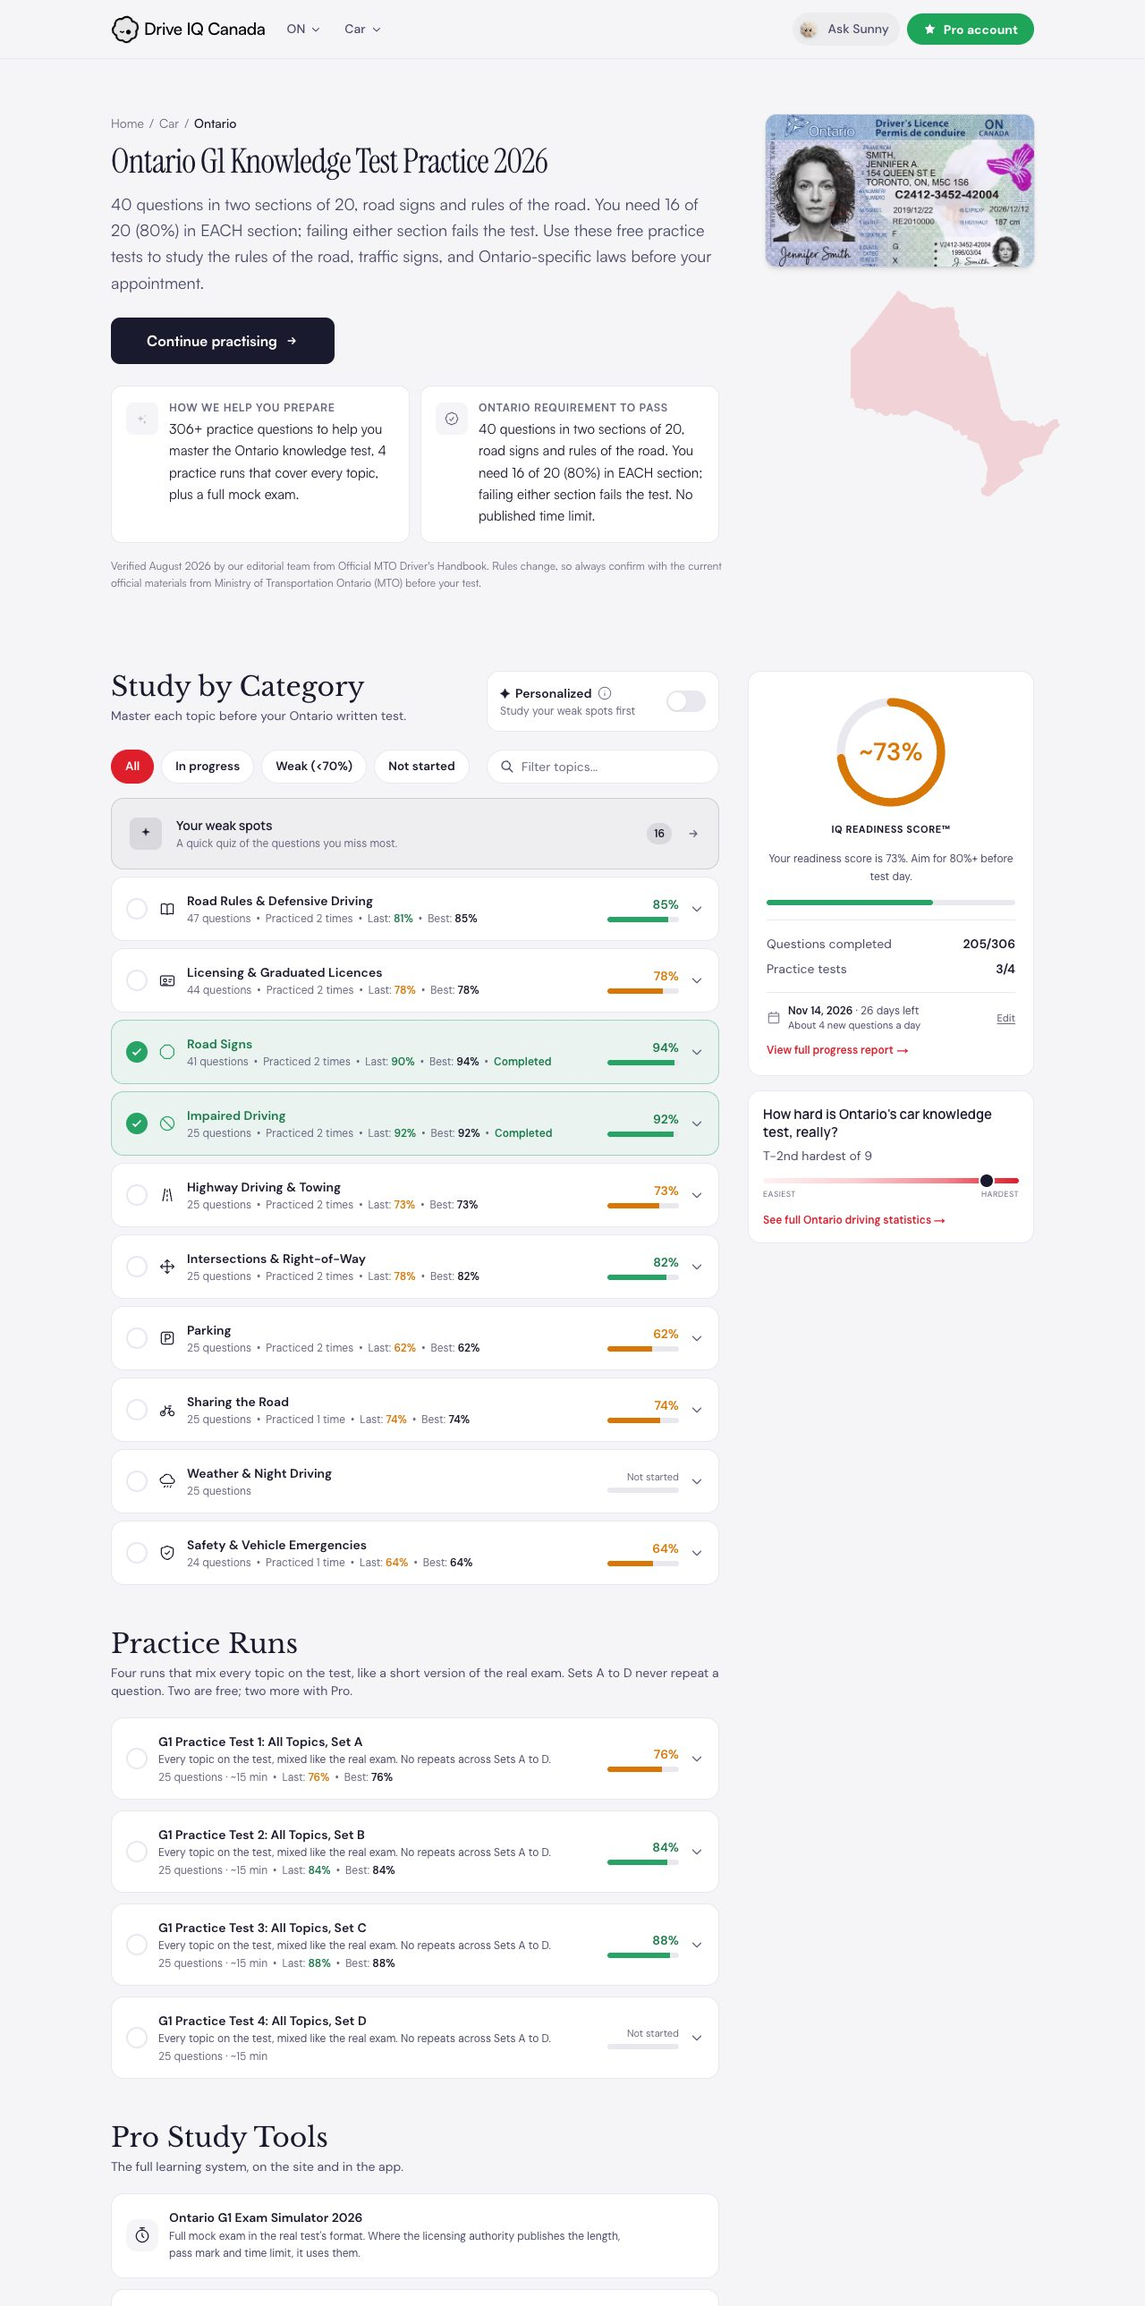
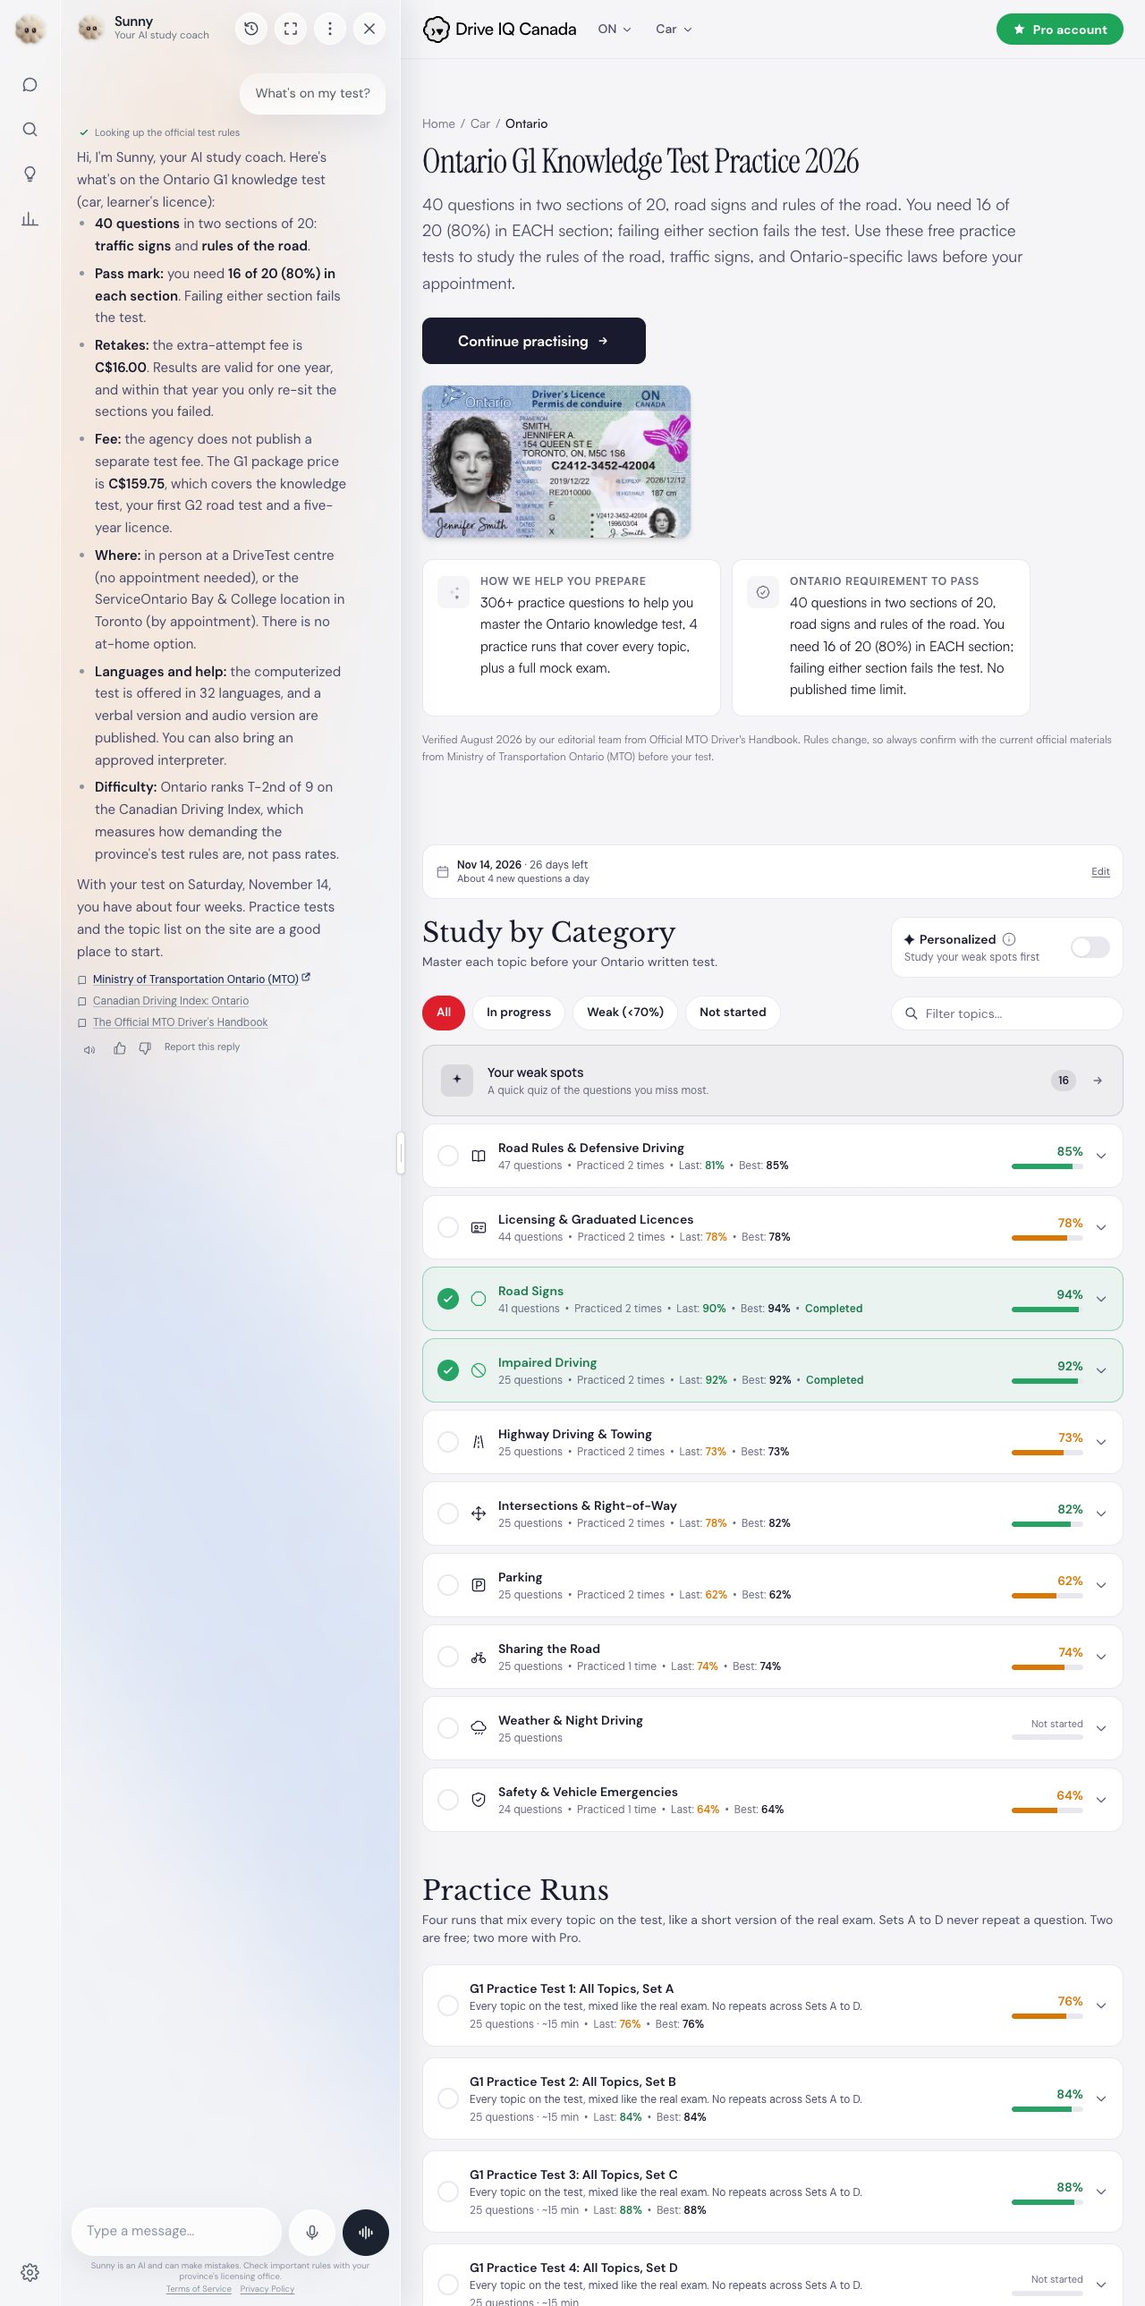
Drive IQ Canada page: site shot with Sunny answering, AI coach and games sections

diff --git a/work/drive-iq-canada/index.html b/work/drive-iq-canada/index.html
@@ -54,7 +54,7 @@
     </header>
     <figure class="s-fig"><div class="s-frame"><div class="stage" role="img" aria-label="A screen from Drive IQ Canada" style="--dd:-65.9%;--c1:#B8404A;--c2:#5C1A22;--bgimg:url(/assets/img/bg/drive-iq-canada.jpg)">
   <div class="win"><div class="bar"><i></i><i></i><i></i><span>driveiqcanada.com</span></div>
-    <div class="vp"><img src="/assets/img/shots/drive-iq-canada-d.jpg?v=2" alt="" width="1280" height="2578"></div></div>
+    <div class="vp"><img src="/assets/img/shots/drive-iq-canada-d.jpg?v=3" alt="" width="1280" height="2578"></div></div>
 </div></div><figcaption>A look inside Drive IQ Canada.</figcaption></figure>
     <div class="s-layout">
       <aside class="s-side" id="get" aria-label="Where to find Drive IQ Canada">
@@ -71,6 +71,12 @@
 <blockquote class="pull">A translated question can quietly stop matching the rule it was meant to test.</blockquote>
 <h2>Beyond the family car</h2>
 <p>Passenger cars are only part of the story. Drive IQ Canada also covers motorcycles and the commercial classes, so the person preparing for a Class 1 gets the same care as the person preparing for a first licence.</p>
+<h2>Practice that feels like play</h2>
+<p>Alongside the practice tests, Drive IQ Canada turns each province&#x27;s own questions into quick games, each with five levels, plus two free picks every day. Sign Sprint and Sign Match drill Canadian road signs, and Fact Check, Flash Cards and By the Numbers draw on your own province&#x27;s question bank. When it&#x27;s time to check readiness, the Exam Simulator follows your province&#x27;s real format, down to tests like Ontario&#x27;s G1 that grade each section on its own.</p>
+<h2>A coach that answers from your province&#x27;s handbook</h2>
+<p>Ask a general-purpose chatbot about a driving rule and you may get a confident answer with another province&#x27;s speed limit, a made-up fee or a rule from the wrong country. For someone studying for a G1 or a SAAQ exam, that is worse than no answer at all.</p>
+<p>Drive IQ Canada includes Sunny, our AI study coach, built to work the other way around. Sunny answers from your province or territory&#x27;s own handbook and official sources, and names the part it used so you can check it yourself. When the licensing authority doesn&#x27;t publish something, Sunny says so instead of guessing. It turns the questions you miss into quick quizzes, gives hints that stop short of handing you the answer, and works in English and in French, on the website and in the app.</p>
+<blockquote class="pull">Ask in English or in French. The answer still comes from your province&#x27;s own rules.</blockquote>
 <h2>An index that says when it does not know</h2>
 <p>We publish a Driving Index that compares provinces using real data. Where a province does not have enough information to rank fairly, we leave it unranked instead of inventing a number. We would rather be honest than tidy.</p>
 <h2>Who it is for</h2>

diff --git a/work/insurance-pass/index.html b/work/insurance-pass/index.html
@@ -54,7 +54,7 @@
     </header>
     <figure class="s-fig"><div class="s-frame"><div class="stage" role="img" aria-label="A screen from Insurance Pass" style="--dd:-65.9%;--c1:#E3A883;--c2:#A55F3E;--bgimg:url(/assets/img/bg/insurance-pass.jpg)">
   <div class="win"><div class="bar"><i></i><i></i><i></i><span>insurance-pass.com</span></div>
-    <div class="vp"><img src="/assets/img/shots/insurance-pass-d.jpg?v=2" alt="" width="1280" height="2578"></div></div>
+    <div class="vp"><img src="/assets/img/shots/insurance-pass-d.jpg?v=3" alt="" width="1280" height="2578"></div></div>
 </div></div><figcaption>A look inside Insurance Pass.</figcaption></figure>
     <div class="s-layout">
       <aside class="s-side" id="get" aria-label="Where to find Insurance Pass">

diff --git a/work/citizen-pass/index.html b/work/citizen-pass/index.html
@@ -54,7 +54,7 @@
     </header>
     <figure class="s-fig"><div class="s-frame"><div class="stage" role="img" aria-label="A screen from Citizen Pass" style="--dd:-65.9%;--c1:#3A4C78;--c2:#1A2640;--bgimg:url(/assets/img/bg/citizen-pass.jpg)">
   <div class="win"><div class="bar"><i></i><i></i><i></i><span>citizen-pass.com</span></div>
-    <div class="vp"><img src="/assets/img/shots/citizen-pass-d.jpg?v=2" alt="" width="1280" height="2578"></div></div>
+    <div class="vp"><img src="/assets/img/shots/citizen-pass-d.jpg?v=3" alt="" width="1280" height="2578"></div></div>
 </div></div><figcaption>A look inside Citizen Pass.</figcaption></figure>
     <div class="s-layout">
       <aside class="s-side" id="get" aria-label="Where to find Citizen Pass">

diff --git a/work/airwaves-iq/index.html b/work/airwaves-iq/index.html
@@ -54,7 +54,7 @@
     </header>
     <figure class="s-fig"><div class="s-frame"><div class="stage" role="img" aria-label="A screen from Airwaves IQ" style="--dd:-65.9%;--c1:#3F8C7E;--c2:#16443C;--bgimg:url(/assets/img/bg/airwaves-iq.jpg)">
   <div class="win"><div class="bar"><i></i><i></i><i></i><span>airwaves-iq.com</span></div>
-    <div class="vp"><img src="/assets/img/shots/airwaves-iq-d.jpg?v=2" alt="" width="1280" height="2578"></div></div>
+    <div class="vp"><img src="/assets/img/shots/airwaves-iq-d.jpg?v=3" alt="" width="1280" height="2578"></div></div>
 </div></div><figcaption>A look inside Airwaves IQ.</figcaption></figure>
     <div class="s-layout">
       <aside class="s-side" id="get" aria-label="Where to find Airwaves IQ">

diff --git a/work/aviator-iq/index.html b/work/aviator-iq/index.html
@@ -54,7 +54,7 @@
     </header>
     <figure class="s-fig"><div class="s-frame"><div class="stage" role="img" aria-label="A screen from Aviator IQ" style="--dd:-65.9%;--c1:#E7D9BF;--c2:#B98E5A;--bgimg:url(/assets/img/bg/aviator-iq.jpg)">
   <div class="win"><div class="bar"><i></i><i></i><i></i><span>aviator-iq.com</span></div>
-    <div class="vp"><img src="/assets/img/shots/aviator-iq-d.jpg?v=2" alt="" width="1280" height="2578"></div></div>
+    <div class="vp"><img src="/assets/img/shots/aviator-iq-d.jpg?v=3" alt="" width="1280" height="2578"></div></div>
 </div></div><figcaption>A look inside Aviator IQ.</figcaption></figure>
     <div class="s-layout">
       <aside class="s-side" id="get" aria-label="Where to find Aviator IQ">

diff --git a/work/mariner-iq/index.html b/work/mariner-iq/index.html
@@ -54,7 +54,7 @@
     </header>
     <figure class="s-fig"><div class="s-frame"><div class="stage" role="img" aria-label="A screen from Mariner IQ" style="--dd:-65.9%;--c1:#3F74B3;--c2:#14305A;--bgimg:url(/assets/img/bg/mariner-iq.jpg)">
   <div class="win"><div class="bar"><i></i><i></i><i></i><span>mariner-iq.com</span></div>
-    <div class="vp"><img src="/assets/img/shots/mariner-iq-d.jpg?v=2" alt="" width="1280" height="2578"></div></div>
+    <div class="vp"><img src="/assets/img/shots/mariner-iq-d.jpg?v=3" alt="" width="1280" height="2578"></div></div>
 </div></div><figcaption>A look inside Mariner IQ.</figcaption></figure>
     <div class="s-layout">
       <aside class="s-side" id="get" aria-label="Where to find Mariner IQ">

diff --git a/work/dmv-iq/index.html b/work/dmv-iq/index.html
@@ -54,7 +54,7 @@
     </header>
     <figure class="s-fig"><div class="s-frame"><div class="stage" role="img" aria-label="A screen from DMV IQ" style="--dd:-65.9%;--c1:#6E9482;--c2:#2F4E41;--bgimg:url(/assets/img/bg/dmv-iq.jpg)">
   <div class="win"><div class="bar"><i></i><i></i><i></i><span>dmv-iq.com</span></div>
-    <div class="vp"><img src="/assets/img/shots/dmv-iq-d.jpg?v=2" alt="" width="1280" height="2578"></div></div>
+    <div class="vp"><img src="/assets/img/shots/dmv-iq-d.jpg?v=3" alt="" width="1280" height="2578"></div></div>
 </div></div><figcaption>A look inside DMV IQ.</figcaption></figure>
     <div class="s-layout">
       <aside class="s-side" id="get" aria-label="Where to find DMV IQ">

diff --git a/_build/build.py b/_build/build.py
@@ -555,26 +555,32 @@ def stage(p):
     dpct = round(100 * (1 - (11 / 16) / (dh / dw)), 1)
     return f"""<div class="stage" role="img" aria-label="A screen from {p['name']}" style="--dd:-{dpct}%;--c1:{c1};--c2:{c2};--bgimg:url(/assets/img/bg/{slug}.jpg)">
   <div class="win"><div class="bar"><i></i><i></i><i></i><span>{p['host']}</span></div>
-    <div class="vp"><img src="/assets/img/shots/{slug}-d.jpg?v=2" alt="" width="{dw}" height="{dh}"></div></div>
+    <div class="vp"><img src="/assets/img/shots/{slug}-d.jpg?v=3" alt="" width="{dw}" height="{dh}"></div></div>
 </div>"""
 
 GAMES = [
  ("sprint","Sign Sprint","Sort road signs by type before the timer runs out."),
- ("fact","Fact Check","Swipe statements from the state's material true or false."),
+ ("fact","Fact Check","Swipe statements from the {region}'s material true or false."),
  ("flash","Flash Cards","Scratch to reveal the answer, then say honestly if you knew it."),
  ("match","Sign Match","Flip cards to pair road signs from memory."),
- ("numbers","By the Numbers","Spin to the exact distance, fine or time limit from your state's questions."),
+ ("numbers","By the Numbers","Spin to the exact distance, fine or time limit from your {region}'s questions."),
 ]
+# per product: clip folder under assets/img/, and the word for its jurisdiction
+GAME_SETS = {"dmv-iq": ("games", "state"), "drive-iq-canada": ("games/drive-iq-canada", "province")}
 
 PLAY_JSON = '{"fact": [{"q": "A red octagon always means stop.", "a": true}, {"q": "Green signs warn you about hazards ahead.", "a": false, "why": "Green signs give directions. Yellow ones warn."}, {"q": "An upside-down triangle means yield.", "a": true}, {"q": "Orange signs mark work zones.", "a": true}, {"q": "A round yellow sign means a roundabout is ahead.", "a": false, "why": "A round yellow sign means a railroad crossing is ahead."}, {"q": "A five-sided sign marks a school zone or crossing.", "a": true}], "flash": [{"tag": "Driving", "q": "A flashing red traffic light means…", "a": "Stop, then go when it\'s safe"}, {"tag": "Citizenship", "q": "How many U.S. Senators are there?", "a": "100"}, {"tag": "Aviation", "q": "Which wingtip carries the red position light?", "a": "Left"}, {"tag": "Boating", "q": "Facing forward on a boat, port is…", "a": "Left"}, {"tag": "Ham radio", "q": "On the air, “CQ” means…", "a": "Calling any station"}, {"tag": "Driving", "q": "A solid yellow line on your side of the road means…", "a": "No passing from your side"}], "match": [["R1-1", "Stop"], ["R1-2", "Yield"], ["W10-1", "Railroad crossing ahead"], ["S1-1", "School crossing"], ["R5-1", "Do not enter"], ["W20-1", "Road work ahead"]]}'
 
 HEART = '<svg viewBox="0 0 24 24" aria-hidden="true"><path d="M12 21s-7.500-4.600-9.600-9.300C.900 8.300 3 4.500 6.700 4.500c2.200 0 3.700 1.300 5.300 3.200 1.600-1.900 3.100-3.200 5.300-3.200 3.700 0 5.800 3.800 4.300 7.200C19.500 16.400 12 21 12 21z"/></svg>'
 
-def games_block():
-    """Gamification showcase on a product page: the real Challenges screen plus each game's animated intro art."""
-    tiles = "".join(f'''<figure class="gm-tile reveal"><video autoplay muted loop playsinline preload="metadata" poster="/assets/img/games/{k}.jpg" aria-hidden="true"><source src="/assets/img/games/{k}.webm" type="video/webm"><source src="/assets/img/games/{k}.mp4" type="video/mp4"></video><figcaption><b>{esc(t)}</b><span>{esc(d)}</span></figcaption></figure>''' for k, t, d in GAMES)
+def games_block(p):
+    """Gamification showcase on a product page: the real Challenges screen plus each game's animated intro art.
+    Renders nothing until the product's clips are in assets/img/<folder>/."""
+    folder, region = GAME_SETS[p["slug"]]
+    if not os.path.exists(os.path.join(ROOT, f"assets/img/{folder}/challenges.jpg")): return ""
+    d = f"/assets/img/{folder}"
+    tiles = "".join(f'''<figure class="gm-tile reveal"><video autoplay muted loop playsinline preload="metadata" poster="{d}/{k}.jpg" aria-hidden="true"><source src="{d}/{k}.webm" type="video/webm"><source src="{d}/{k}.mp4" type="video/mp4"></video><figcaption><b>{esc(t)}</b><span>{esc(x.format(region=region))}</span></figcaption></figure>''' for k, t, x in GAMES)
     return f'''<div class="gm">
-  <figure class="gm-phone reveal"><img src="/assets/img/games/challenges.jpg" alt="The Challenges screen in the DMV IQ app: Exam Simulator, Quick Quiz, Practice Test and daily games" width="520" height="1129" loading="lazy"></figure>
+  <figure class="gm-phone reveal"><img src="{d}/challenges.jpg" alt="The Challenges screen in the {p['name']} app: Exam Simulator, Quick Quiz, Practice Test and daily games" width="520" height="1129" loading="lazy"></figure>
   <div class="gm-grid">{tiles}</div>
 </div>
 '''
@@ -588,7 +594,7 @@ def product(p):
     for kind, text in st["body"]:
         if kind == "p": body_html += f"<p>{esc(text)}</p>\n"
         elif kind == "h": body_html += f"<h2>{esc(text)}</h2>\n"
-        elif kind == "games": body_html += games_block()
+        elif kind == "games": body_html += games_block(p)
         else: body_html += f'<blockquote class="pull">{esc(text)}</blockquote>\n'
     rows = ""
     for label, links in p["apps"]:

diff --git a/_build/stories.py b/_build/stories.py
@@ -81,6 +81,13 @@ STORIES = {
   ("q","A translated question can quietly stop matching the rule it was meant to test."),
   ("h","Beyond the family car"),
   ("p","Passenger cars are only part of the story. Drive IQ Canada also covers motorcycles and the commercial classes, so the person preparing for a Class 1 gets the same care as the person preparing for a first licence."),
+  ("h","Practice that feels like play"),
+  ("p","Alongside the practice tests, Drive IQ Canada turns each province's own questions into quick games, each with five levels, plus two free picks every day. Sign Sprint and Sign Match drill Canadian road signs, and Fact Check, Flash Cards and By the Numbers draw on your own province's question bank. When it's time to check readiness, the Exam Simulator follows your province's real format, down to tests like Ontario's G1 that grade each section on its own."),
+  ("games",""),
+  ("h","A coach that answers from your province's handbook"),
+  ("p","Ask a general-purpose chatbot about a driving rule and you may get a confident answer with another province's speed limit, a made-up fee or a rule from the wrong country. For someone studying for a G1 or a SAAQ exam, that is worse than no answer at all."),
+  ("p","Drive IQ Canada includes Sunny, our AI study coach, built to work the other way around. Sunny answers from your province or territory's own handbook and official sources, and names the part it used so you can check it yourself. When the licensing authority doesn't publish something, Sunny says so instead of guessing. It turns the questions you miss into quick quizzes, gives hints that stop short of handing you the answer, and works in English and in French, on the website and in the app."),
+  ("q","Ask in English or in French. The answer still comes from your province's own rules."),
   ("h","An index that says when it does not know"),
   ("p","We publish a Driving Index that compares provinces using real data. Where a province does not have enough information to rank fairly, we leave it unranked instead of inventing a number. We would rather be honest than tidy."),
   ('h','Who it is for'),

diff --git a/CLAUDE.md b/CLAUDE.md
@@ -14,6 +14,7 @@ Static site on GitHub Pages (push `main` to deploy). Edtech-studio redesign (Oct
 - Contact form posts to the Cloud Run service `oddlysunny-contact` (project dmv-iq, us-central1; source in `_contact-service/`, key in Secret Manager `oddlysunny-resend-key`). Redeploy: `cd _contact-service && gcloud run deploy oddlysunny-contact --project dmv-iq --region us-central1 --source .` (set CLOUDSDK_PYTHON=/opt/homebrew/bin/python3.12).
 - Homepage games (Play section) run from `assets/site.js` (search "playable mini games"); their data is `PLAY_JSON` in build.py, sign art in `assets/img/signs/` (real MUTCD SVGs from dmviq-website). Only use facts true in every state.
 - /sunny demo cards: `SUNNY_WIDGET_CASES` + `sunny_widget()` in build.py are written examples of Sunny's real card types (quiz, course, progress); `sunny_examples.json` holds the real transcripts.
-- Product page screenshots: recapture with `_shots/` (see its README); Pro + seeded progress on the live sites.
+- Product page screenshots: recapture with `_shots/` (see its README); Pro + seeded progress on the live sites. Configs can `clicks` buttons by text (Drive IQ CA opens Sunny and asks a starter question: the reply is live output, so it changes per run).
+- Product page games section: `games_block(p)` + `GAME_SETS` in build.py; clips per product in `assets/img/games/` (DMV IQ) or `assets/img/games/<slug>/`.
 - Header menu is "Stories" (story headlines from stories.py, app icons in `assets/img/apps/`). Keep the dropdown light.
 - Git gotcha: a sync tool once created `.git/refs/heads/main (1)` and broke `git fetch`; move such files out of `.git`.

diff --git a/STATUS.md b/STATUS.md
@@ -92,3 +92,9 @@
 - Homepage hero: as you scroll down, the floating photos shrink, drift outward from the centre, blur and fade; the headline block blurs, fades and lifts. `site.js` "hero: on scroll down" block (standalone `translate`/`scale` so it never fights the `.in` swap transition); off under reduced motion. JS `?v=51`.
 - Checked on desktop Chrome at localhost: effect runs, no console errors. Not checked on a real phone.
 - Next step: owner review on localhost:8765, then `git push` to deploy.
+
+## 2026-10-19 Drive IQ Canada page: Sunny shot + coach section (committed)
+- New site shot: live driveiqcanada.com Ontario page with Sunny docked, a real production answer to "What's on my test?" (cites MTO + the handbook). `_shots/capture.mjs` gained `clicks` (click buttons by text, e.g. open Sunny and ask), `skipScroll`, and `captureBeyondViewport:false` (a clipped beyond-viewport capture drew the docked panel over the page). Shot URL `?v=3`.
+- Story: "Practice that feels like play" + "A coach that answers from your province's handbook" (claims match driveiqcanada.com's own Sunny copy). `games_block(p)` is per product (`GAME_SETS`); Drive IQ CA's block renders only once `assets/img/games/drive-iq-canada/` has challenges.jpg + 5 clips.
+- Copy says Sunny works "on the website and in the app": true once app 1.1.0 (Sunny) is live in the stores.
+- Next step: add the Canada app captures (Challenges screen + 5 game clips, being made from a screenshot-mode port on drive-iq-canada-app branch `app-shots`), rebuild, push.
